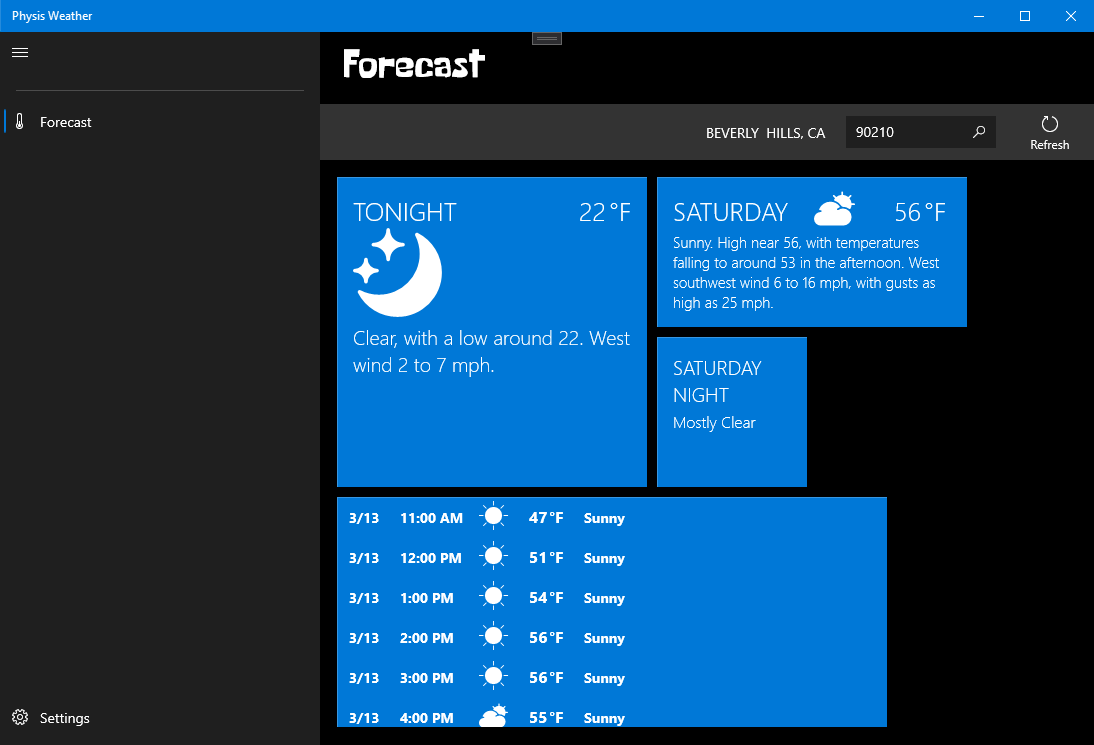
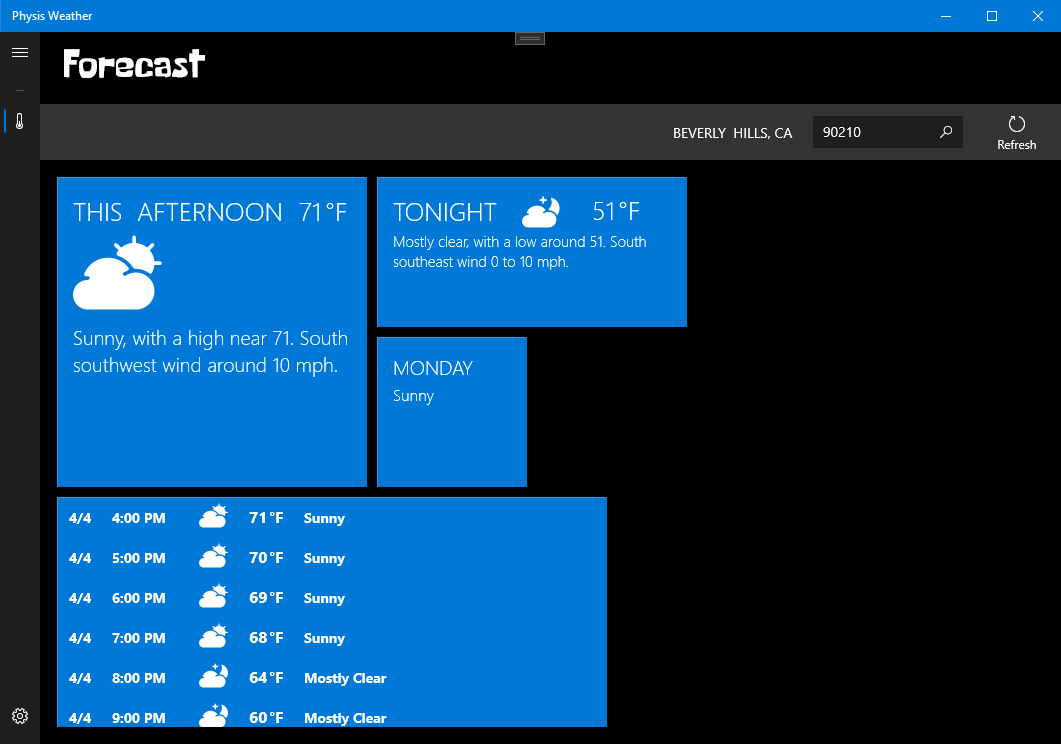
Update screenshot and default nav view to launch as closed.

diff --git a/PhysisWeather/PhysisWeather.App/ShellPage.xaml.cs b/PhysisWeather/PhysisWeather.App/ShellPage.xaml.cs
@@ -15,6 +15,8 @@ namespace PhysisWeather.App
             InitializeComponent();
             DataContext = ViewModel;
             ViewModel.Initialize(shellFrame, navigationView, KeyboardAccelerators);
+
+            navigationView.IsPaneOpen = false;
         }
     }
 }
